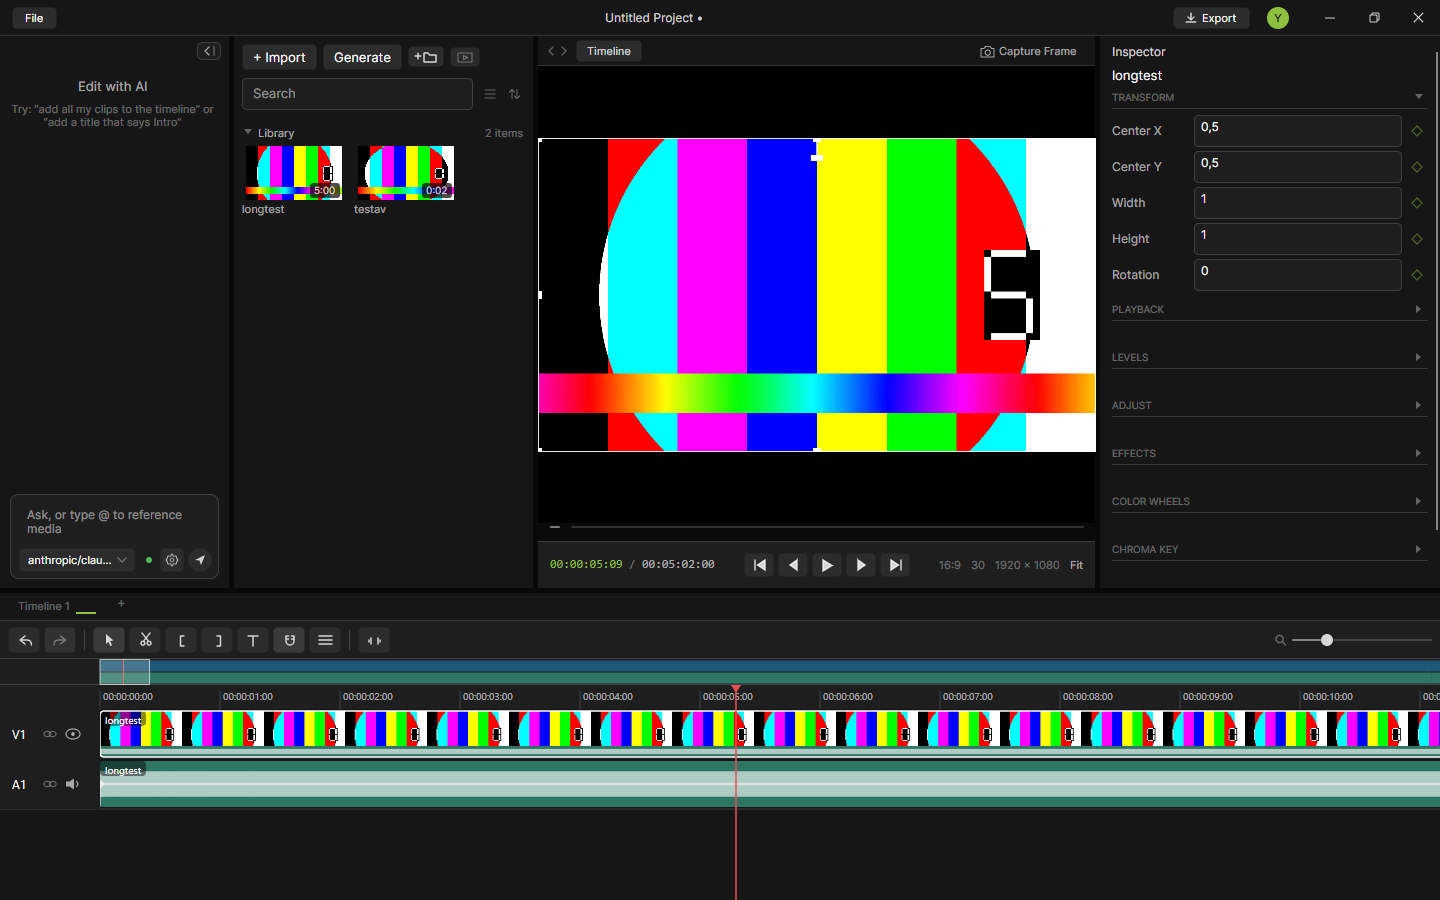
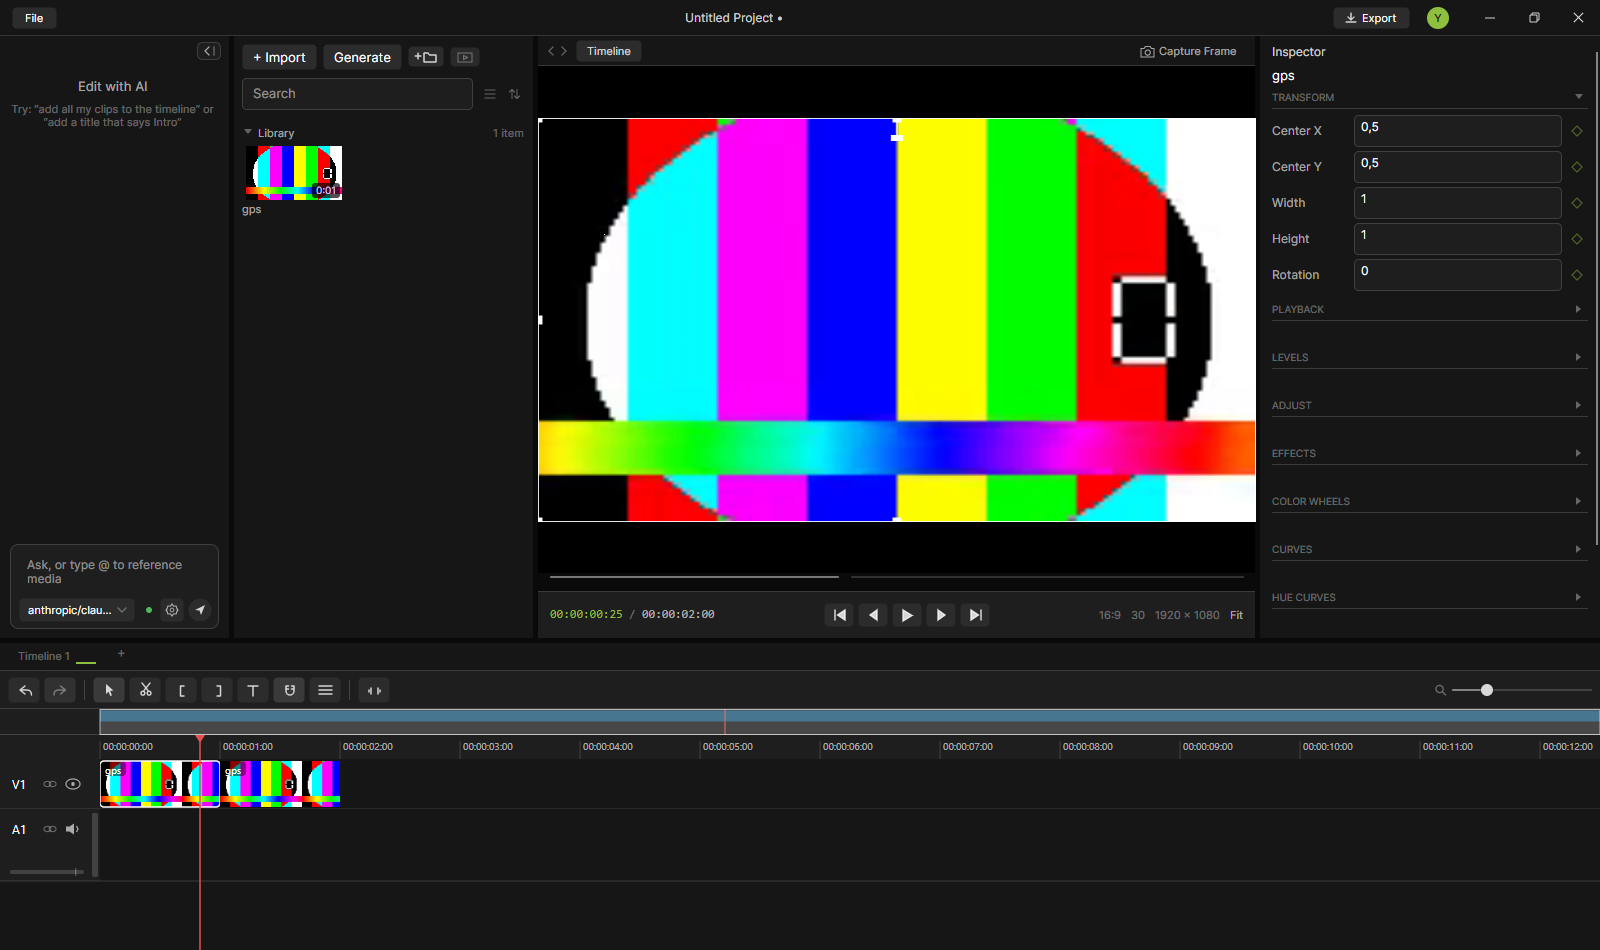
[docs] Refresh the README screenshot and feature list for the current build

diff --git a/README.md b/README.md
@@ -24,10 +24,10 @@ First launch asks your name and accent color. If something goes wrong, logs are 
 
 The Windows app is real and running. What works today:
 
-- **Editor shell (Avalonia):** AppTheme-faithful dark UI — media library (folders, search, grid/list, hover scrub), preview with transport + source-monitor tabs, custom timeline (filmstrips, waveforms, roll/trim/blade/ripple edits, snap, ranges, multi-track, tabs), inspector (transform, keyframes, fades, effects, LUT), undo/redo, project files (`.palmier` save/open/autosave), export queue to H.264/MP4, FCPXML interchange, auto-update.
-- **Media engine (Swift + Vulkan + FFmpeg):** frame-accurate decode with seek-and-walk caching, 12 effect kernels re-authored in SPIR-V, text layers, audio (miniaudio/WASAPI), composited-frame capture, offscreen export.
-- **AI agent:** multi-provider chat (Anthropic, OpenAI, Z.AI, Moonshot, OpenRouter) with tool-use editing of the timeline, streaming, permission prompts, live model lists.
-- **Generation:** Replicate and fal.ai integration (Seedance 2.0, Kling 3.0, Veo 3 families) with first/last-frame transitions generated straight from timeline cuts, reference media, cost estimates, and provenance sidecars.
+- **Editor shell (Avalonia):** AppTheme-faithful dark UI — media library (folders, search, grid/list, hover scrub), preview with transport + source-monitor tabs, custom timeline (filmstrips, waveforms, roll/trim/blade/ripple edits, snap, loop ranges, multi-track, per-track height/gain/meters, tabs), inspector (transform, keyframes, fades, effects, LUT, color wheels, grade + hue curve editors), undo/redo, project files (`.palmier` save/open/autosave), export queue to H.264/MP4, FCPXML interchange, auto-update.
+- **Media engine (Swift + Vulkan + FFmpeg):** frame-accurate decode with seek-and-walk caching, 17 effect kernels re-authored in SPIR-V, text layers, audio (miniaudio/WASAPI), composited-frame capture, offscreen export.
+- **AI agent:** multi-provider chat (Anthropic, OpenAI, Z.AI, Moonshot, OpenRouter) with tool-use editing of the timeline, streaming, permission prompts, live model lists — or drive the editor from an external MCP client (below).
+- **Generation:** Replicate and fal.ai integration (Seedance 2.0, Kling 3.0, FLUX.3, Veo 3 families) with first/last-frame transitions from timeline cuts, a guided prompt builder, optional location context from footage GPS tags, clip extension (Enhance) from a clip's tail, reference media, cost estimates, and provenance sidecars with a recent-generations list.
 
 Architecture: the shell talks to the Swift core in-proc through a thin `@_cdecl` C ABI (`PalmierCoreHost.dll`) — no COM, no WinUI 3. See [`docs/windows-port-proposal.md`](docs/windows-port-proposal.md) for the port's foundations and the `PalmierWin/` directory for the engine.
 
@@ -58,7 +58,7 @@ dotnet build Shell        # C# shell
 .\Shell\run-shell.ps1     # run the editor
 ```
 
-Tests: `dotnet test PalmierWin/Shell/PalmierShell.sln` (460+ shell and interop tests) and the `palmierwin-spike` engine harness.
+Tests: `dotnet test PalmierWin/Shell/PalmierShell.sln` (740+ shell and interop tests) and the `palmierwin-spike` engine harness.
 
 ## Credits
 
